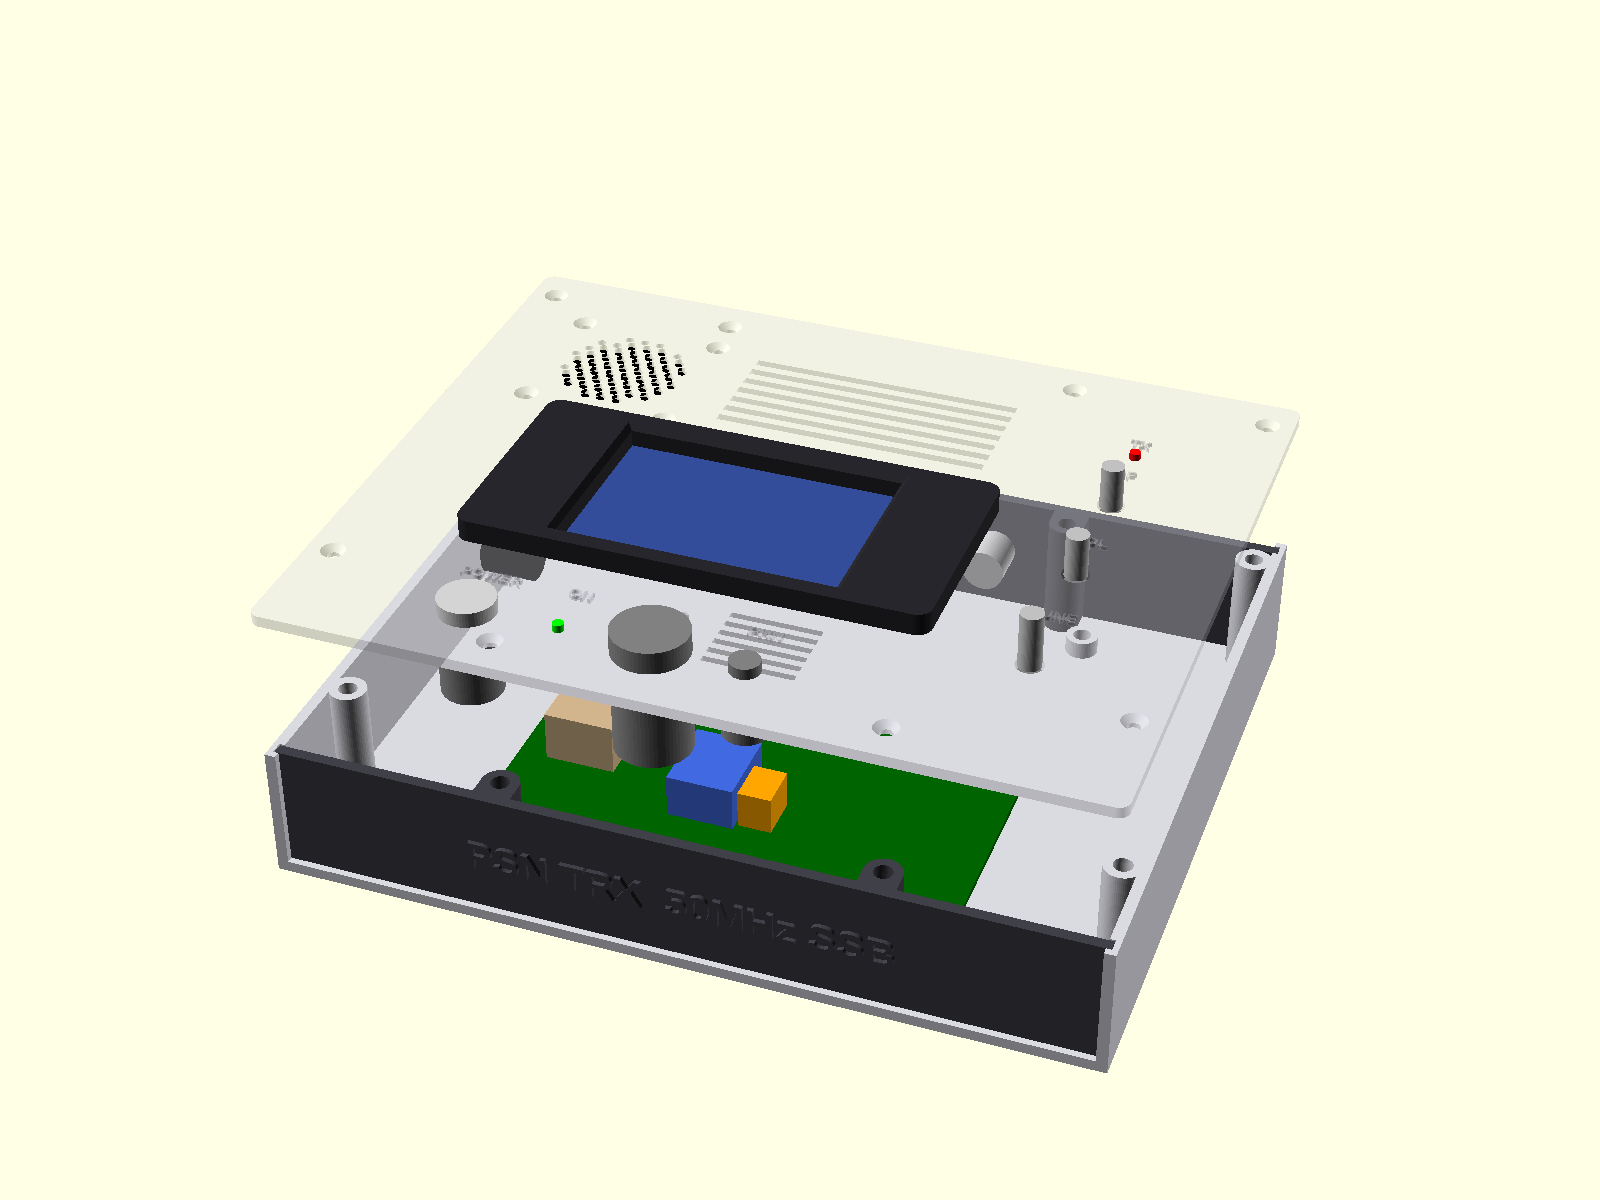
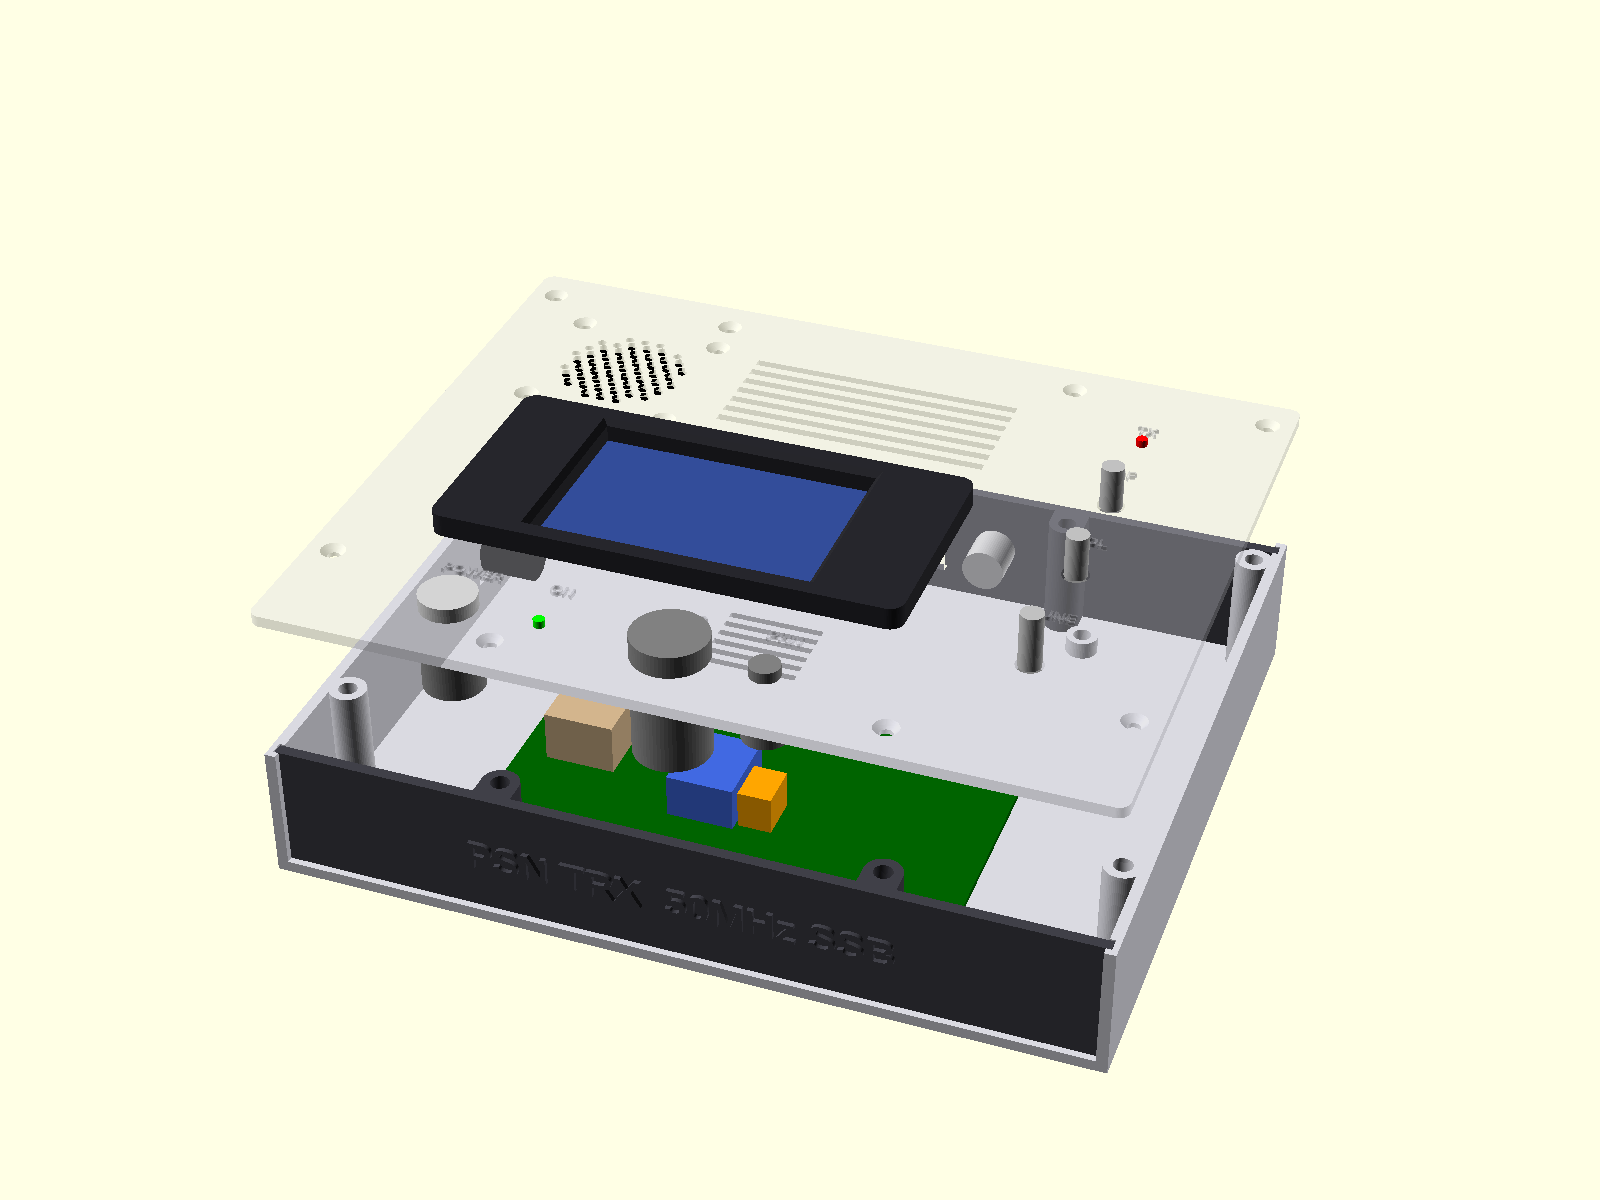
ケース: LCD の窓を左へ 7mm（ベゼル左端 X 26）、TX ランプを奥へ 7mm、下の列の POWER・ON を左へ・MIC・PHN を右へ 5mm
- LCD・ベゼル: ベゼルの左端 X 33 → 26mm（窓の中心 X 88.5mm）
- TX ランプ: Y 142 → 149mm（RF ゲインのつまみの後ろ）
- 下の列: POWER X 44.5・ON X 68.5・MIC X 102.5・PHN X 126.5mm（Y 20mm）
- 干渉チェック（assert）は全部通る。MIC の本体と基板の J10 のすき間は約 0.9mm なので、J10 のケーブルは MIC と反対の向きへ出す
- 上面図・組立図・ケースの README・README の変更履歴を更新

diff --git a/README.md b/README.md
@@ -193,7 +193,7 @@ docs/
 
 | 日付 | 変更内容 |
 |---|---|
-| 2026-11-06 | **V2 Ver 1.2**: 電源関係をケースの左、アンテナ関係を右に集めた（ケースの中の電源線が PA の出力 LPF・BNC の上を通らないように）。基板: J2（電源入力）を左辺の前寄りへ移し、穴を φ1.5 → φ1.1mm（AWG20、電流 1A 弱に合わせる）に。J1（アンテナ）を同軸のじか付け（2.54mm ピッチ・穴 φ1.1mm）に。J2 の横に +12V のパスコン C109（0.1µF）・C110（0.01µF）、電源 LED 用に R80（10kΩ、約 1mA）と J12 を追加。新しい J2 から L20 まで +12V を基板の前半分（PA から離れた側）に引いた（ほかの配線は動かしていない）。部品 276 → 280 点。ケース: 電源スイッチ・電源 LED・MIC・PHN を LCD の窓の手前に等間隔（24mm）に並べ、電源スイッチはふたの右奥から移した。LCD・ベゼルは 20mm 右へ。TX ランプは RF ゲインのつまみの後ろへ移し、基板の J9 も右側の辺の前寄りへ移した（Q20・R72 までは 0.25mm で引き直し）。DC ジャック・ヒューズは左奥のまま。製造データは `kicad/make_production.py` で作り直した（変更前の基板から前回と同じファイルを作ることを確認済み）。DRC 違反 0・未配線 0・回路図との不一致 0、ERC 未除外 0 |
+| 2026-11-06 | **V2 Ver 1.2**: 電源関係をケースの左、アンテナ関係を右に集めた（ケースの中の電源線が PA の出力 LPF・BNC の上を通らないように）。基板: J2（電源入力）を左辺の前寄りへ移し、穴を φ1.5 → φ1.1mm（AWG20、電流 1A 弱に合わせる）に。J1（アンテナ）を同軸のじか付け（2.54mm ピッチ・穴 φ1.1mm）に。J2 の横に +12V のパスコン C109（0.1µF）・C110（0.01µF）、電源 LED 用に R80（10kΩ、約 1mA）と J12 を追加。新しい J2 から L20 まで +12V を基板の前半分（PA から離れた側）に引いた（ほかの配線は動かしていない）。部品 276 → 280 点。ケース: 電源スイッチ・電源 LED・MIC・PHN を LCD の窓の手前に等間隔（24mm）に並べ、電源スイッチはふたの右奥から移した。LCD・ベゼルは 13mm 右へ（ベゼルの左端 X 26mm）。TX ランプは RF ゲインのつまみの後ろへ移し、基板の J9 も右側の辺の前寄りへ移した（Q20・R72 までは 0.25mm で引き直し）。DC ジャック・ヒューズは左奥のまま。製造データは `kicad/make_production.py` で作り直した（変更前の基板から前回と同じファイルを作ることを確認済み）。DRC 違反 0・未配線 0・回路図との不一致 0、ERC 未除外 0 |
 | 2026-11-05 | **V2 Ver 1.1**: 部品形の全数照合で見つかった誤りを修正 — XIAO ESP32C3（新 U7）の列の間隔 11.43 → 15.24mm と鏡写しを Seeed 公式の並びに、Si5351 モジュール（新 U6）の鏡写しのピン番号を正しい並びに、10µH（新 L20・RFC1、長さ 14mm）が 12.7mm の横置きに入らないので、L20 は縦置き、RFC1 は横置き 15.24mm に（RFC1 はスピーカーのマグネットの下）。PA ドレインの配線を 0.8mm に戻した。電源入力 J2 を太い電線のじか付け用（5.08mm・穴 φ1.5mm）に。3SK59（旧 Q2）を削除し、2SK192A は 4 個とも BL ランク・ソース抵抗 R3・R18 を 100Ω に（受信全体の利得は約 −2.7dB、電流は 7.4mA）。パスコン（C3・C50・C106・C107）を足元へ。ネット名 +9V → RX12V、+12V・TX12V を命名。**部品番号を信号の流れの順に振り直した**（[`kicad/refdes_map_2026-11-05.csv`](kicad/refdes_map_2026-11-05.csv)。この表の古い行は当時の番号）。基板は変えた部品の周りだけ再配線（DRC 0・未配線 0・回路図との不一致 0）、ガーバー・JLCPCB 提出資料・部品実装図を出し直し。同日、ngspice のブロックごとの確認（`kicad/sim/blocks.py`）を足し、調整手順の目標値をその結果に合わせた。docx 4 本（組み立て説明書・評価試験報告書・回路図論理検証レポート・VFO 仕様書）を V2 Ver 1.1 の内容で書き直した（`docs/tools/make_docx.py`）。部品実装図の XIAO の表示を U7 に直し、部品表・スケッチのコメントに残っていた 3SK59 時代の番号（Q2 の G2 など）を直した。回路図の再精査で、RF ゲインのつまみ VR1 を 5kΩ → **10kΩ B**（秋月 SH16K4B103L20KCCI）に変更（R17 20kΩ との分圧で AGC の線を約 4.0V に。5kΩ では約 2.4V で、2SK192A の個体によっては下段の電圧が足りない。パネル部品なので基板は変わらない） |
 | 2026-10-31 | J310（Q4・Q5・Q20・Q25）を 2SK192A-GR（東芝、TO-92 小型、ピン 1 D・2 S・3 G で基板と同じ）に置き換え。R66 100Ω → 47Ω。R5 は 3SK59 用の 120Ω のまま、Q4・Q5 に 2SK192A を付けるときは 47Ω（22〜100Ω で 5〜8mA に調整）。基板はパターン・配置とも変更なし（DRC 0・未配線 0・回路図との不一致 0、ガーバーは値を含まないので出し直しなし）。利得が下がる分（RF 増幅 +10.9 → +7.7dB）を戻すため、L19 のタップを +9V 側から 2 回目 → 3 回目に（値 T30-6 11T/3T）。シミュレーション: RF 増幅 +10.5dB、前段の電力利得 +19.9dB・雑音指数 0.96dB、全体の雑音指数 1.3dB（混合器 NF 10dB）、TC3 約 9 → 10.8pF。S9 で AD8307 の入力 −8.2dBm なのでファームウェアの RSSI_S9_MV 1900・AGC_TARGET_MV 1750 はそのまま |
 | 2026-10-30 | 受信部を改造: RF 増幅を 2N3819 1 石 → J310 カスコード（Q20・Q25、Q25 のゲートに AGC）、複同調 BPF → 入力同調（L18）＋出力同調（L19、R67 2.2kΩ で制動）、R65・C81・L20 を削除。積検波の後に AF 前置増幅 Q23（2SC1815、R96 8.2k・R97 100k・R98 1k）を追加、R80 1k・C103 0.047µ。表面実装は使わない方針で J310 は 4 個とも TO-92（Q4・Q5 も SOT-23 から変更。NJM2594V だけ例外）。基板: 受信部を置き直し・再配線（DRC 0・未配線 0・回路図との不一致 0）。部品表を更新。ファームウェア: RSSI_S9_MV 1900・AGC_TARGET_MV 1750・AGC_RANGE_DB 28。シミュレーションを新しい回路に合わせ、V1 との比較を追加 |

diff --git a/enclosure/README.md b/enclosure/README.md
@@ -19,7 +19,7 @@
 - 外形: **幅 220 × 奥行き 180 × 高さ 40 mm**（220 mm 角のベッドで印刷できる上限。V2 基板が 21.3 mm 広くなったので 215 mm から広げた。ベゼル 6 mm は上面に出る）。基板上で最も高い放熱器 HS1（25 mm）の上端は底から約 34.6 mm、ふた裏面は 37 mm（隙間 2.4 mm、ふたの後ろ寄りに通風スロット）。
 - 操作は上から: 上面の手前（LCD の中央付近）に MIC・PHN、その奥に LCD（放熱器の手前まで）。ふた裏で部品の本体が基板にかからない位置に並べています。
   - 右列（X = 184 mm）: 奥から **RF・VOL・TUNE**
-  - LCD の窓の手前の 1 列: 左から **POWER（電源スイッチ）・ON（電源 LED）・MIC・PHN** を、X 85.5 mm を中心に左右対称に 24 mm 間隔（X 49.5・73.5・97.5・121.5 mm、Y 20 mm）で並べ。TX ランプは右の列の RF ゲインのつまみの後ろ（X 184 mm、Y 142 mm）。LCD とベゼルは 2026-11-06 にこの列とは別に 20 mm 右へ寄せた（ベゼルの左端 X 33 mm、窓の中心 X 95.5 mm）。間隔は MIC のつばと PHN のプラグの間に指が入る 10 mm から決めた。電源関係（DC ジャック・ヒューズ・電源スイッチ・電源 LED・基板の J2）を左に、アンテナ関係（BNC・基板の J1）を右に集め、電源線がケースの左側だけを通って PA の出力 LPF・BNC の上を通らないようにしています
+  - LCD の窓の手前の 1 列: 左から **POWER（電源スイッチ）・ON（電源 LED）・MIC・PHN** を、X 44.5・68.5・102.5・126.5 mm（Y 20 mm）に並べた（POWER と ON、MIC と PHN はそれぞれ 24 mm 間隔、ON と MIC の間は 34 mm）。TX ランプは右の列の RF ゲインのつまみの後ろ（X 184 mm、Y 149 mm）。LCD とベゼルの位置はこの列とは別に決めている（ベゼルの左端 X 26 mm、窓の中心 X 88.5 mm）。間隔は MIC のつばと PHN のプラグの間に指が入る 10 mm から決めた。電源関係（DC ジャック・ヒューズ・電源スイッチ・電源 LED・基板の J2）を左に、アンテナ関係（BNC・基板の J1）を右に集め、電源線がケースの左側だけを通って PA の出力 LPF・BNC の上を通らないようにしています
   - 手前（LCD の手前の中央付近、ふた裏の本体は基板より前）: 左から **MIC・PHN**
   - 後面（後ろから見て左から）: **ANT（BNC）・DC 12V・FUSE**（高さは後面の見える範囲の中央、下から約 18 mm）。ANT は基板の J1（アンテナ）のすぐ後ろ、DC 12V は FUSE の隣（ジャックとヒューズの間の線を短くする）
   - 前面: 機種名のみ
@@ -46,10 +46,10 @@
 | ロータリーエンコーダ（押しスイッチ付き） | φ7.2（M7 ブッシュ） | J10 |
 | AF ボリューム（10 kΩ A） | φ7.2 | J5 |
 | RF ゲイン ボリューム（10 kΩ B） | φ7.2 | J3 |
-| 電源スイッチ | φ13.0（丸穴）。LCD の窓の下の左端（X 49.5、Y 20 mm、ふた裏に約 20 mm。本体は基板の前端より手前） | DC ジャック → ヒューズ → スイッチ → J2。線はケースの左の側板に沿わせる（後面の DC ジャック → ヒューズ → スイッチ → J2 で ＋12V 約 180 mm） |
-| 送信表示 LED（3 mm） | φ3.0。右の列、RF ゲインのつまみの後ろ（X 184、Y 142 mm） | J9（基板の右側の辺の前寄り、ケースで X 約 168、Y 約 78 mm） |
+| 電源スイッチ | φ13.0（丸穴）。LCD の窓の下の左端（X 44.5、Y 20 mm、ふた裏に約 20 mm。本体は基板の前端より手前） | DC ジャック → ヒューズ → スイッチ → J2。線はケースの左の側板に沿わせる（後面の DC ジャック → ヒューズ → スイッチ → J2 で ＋12V 約 180 mm） |
+| 送信表示 LED（3 mm） | φ3.0。右の列、RF ゲインのつまみの後ろ（X 184、Y 149 mm） | J9（基板の右側の辺の前寄り、ケースで X 約 168、Y 約 78 mm） |
 | スピーカー（秋月 116024 DXYD50N-22Z-8A-F、5 cm 8 Ω 0.5 W） | 放音穴 φ2.5（直径 35 mm の範囲）、取付穴 φ3.4 × 4（40 mm 角、皿もみ）。中心 X 41、Y 138 mm、通風スロット（X 74〜148 mm）の左 | J6（SP-OUT）からイヤホンジャック（MJ-352W-C）のブレーク接点経由。イヤホンを挿すとスピーカーが切れる |
-| 電源 LED（3 mm、高輝度品） | φ3.1（LED ホルダ使用時は 5.0 に変更）。電源スイッチの右（X 73.5 mm） | 基板の J12 へ（電流制限は基板の R80 10 kΩ、約 1 mA。J12.1 = アノード側、J12.2 = GND） |
+| 電源 LED（3 mm、高輝度品） | φ3.1（LED ホルダ使用時は 5.0 に変更）。電源スイッチの右（X 68.5 mm） | 基板の J12 へ（電流制限は基板の R80 10 kΩ、約 1 mA。J12.1 = アノード側、J12.2 = GND） |
 | マイクコネクタ（4P 丸型） | φ16.2 | J7（1: +5V / 2: MIC / 3: PTT / 4: GND） |
 | イヤホンジャック（3.5 mm、スイッチ付き。秋月 117359 MJ-352W-C） | φ6.2（ジャックの M6 ねじを通しナットで固定。穴の周りはふた裏から座ぐりして板厚 1.8 mm） | J6。スピーカーはジャックのブレーク接点経由でつなぐ（プラグを挿すとスピーカーが切れる） |
 
